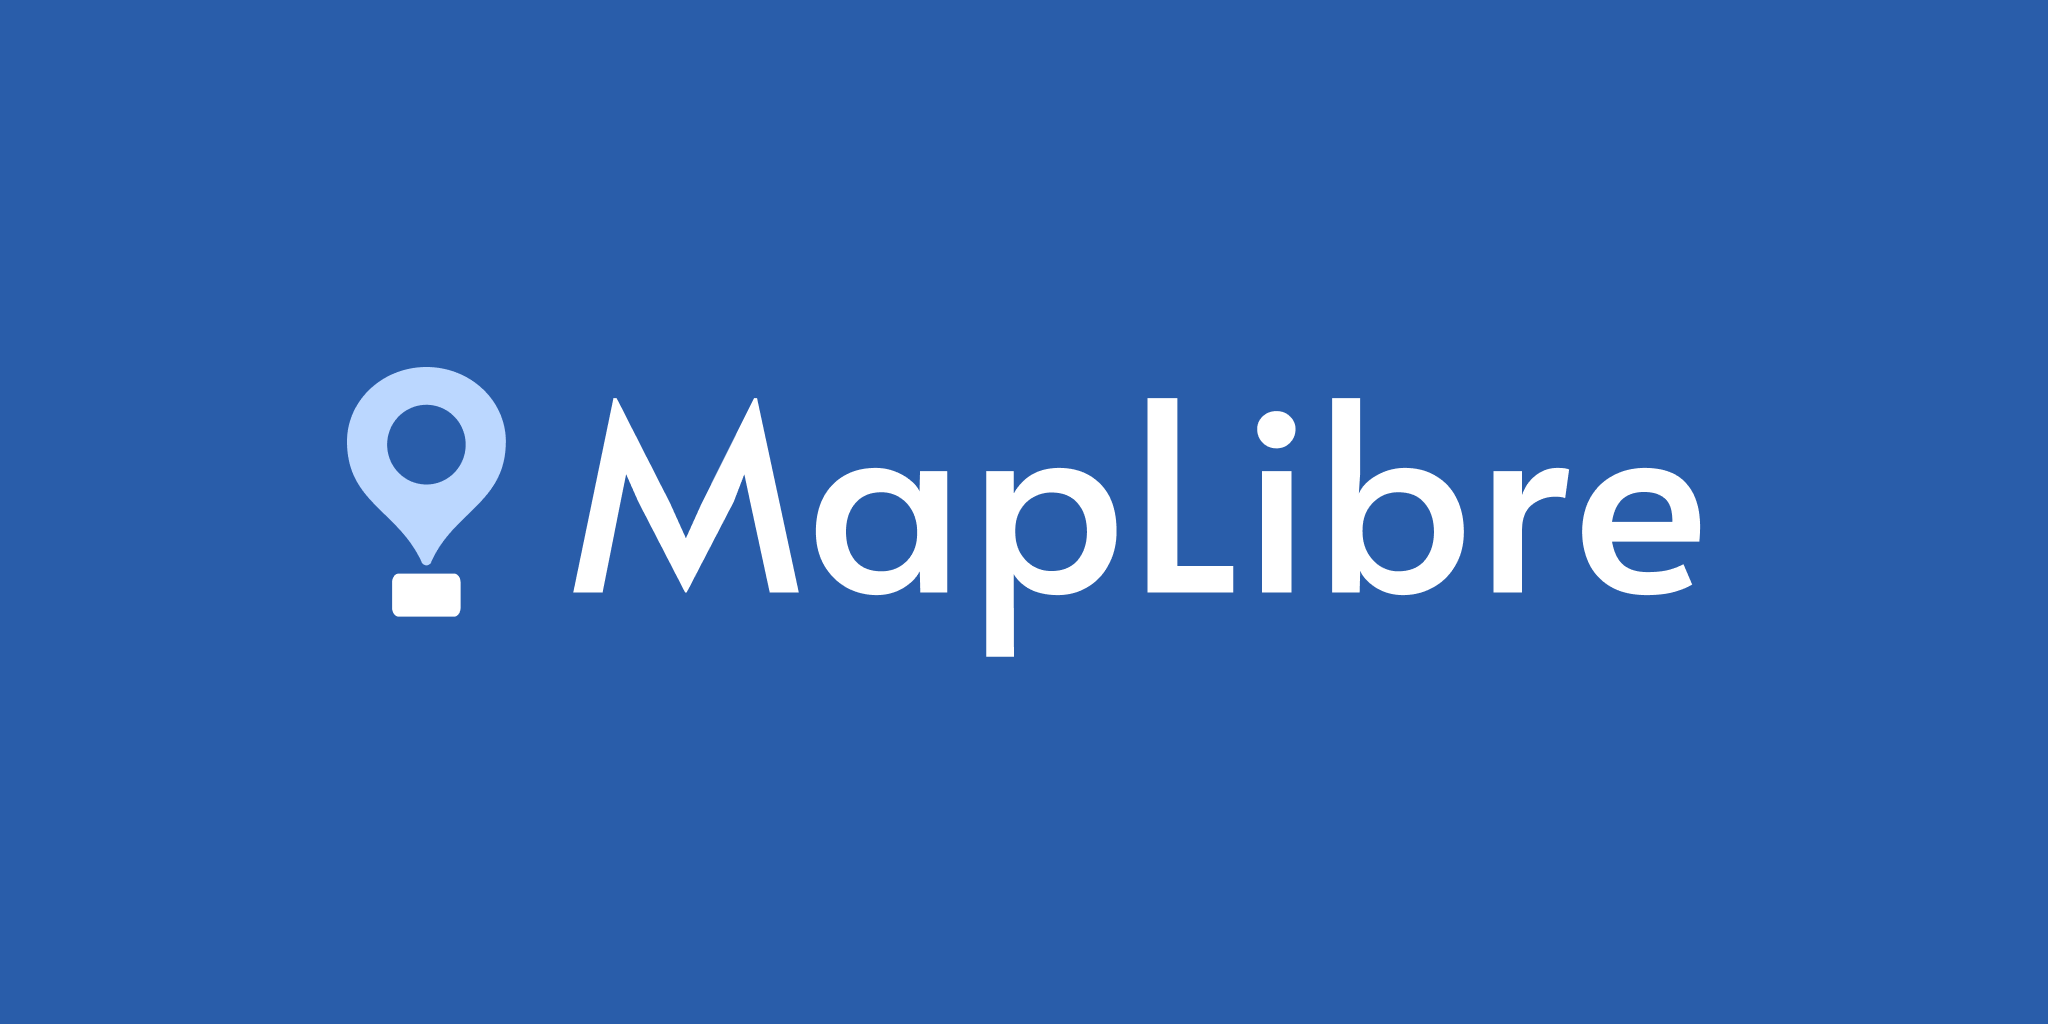
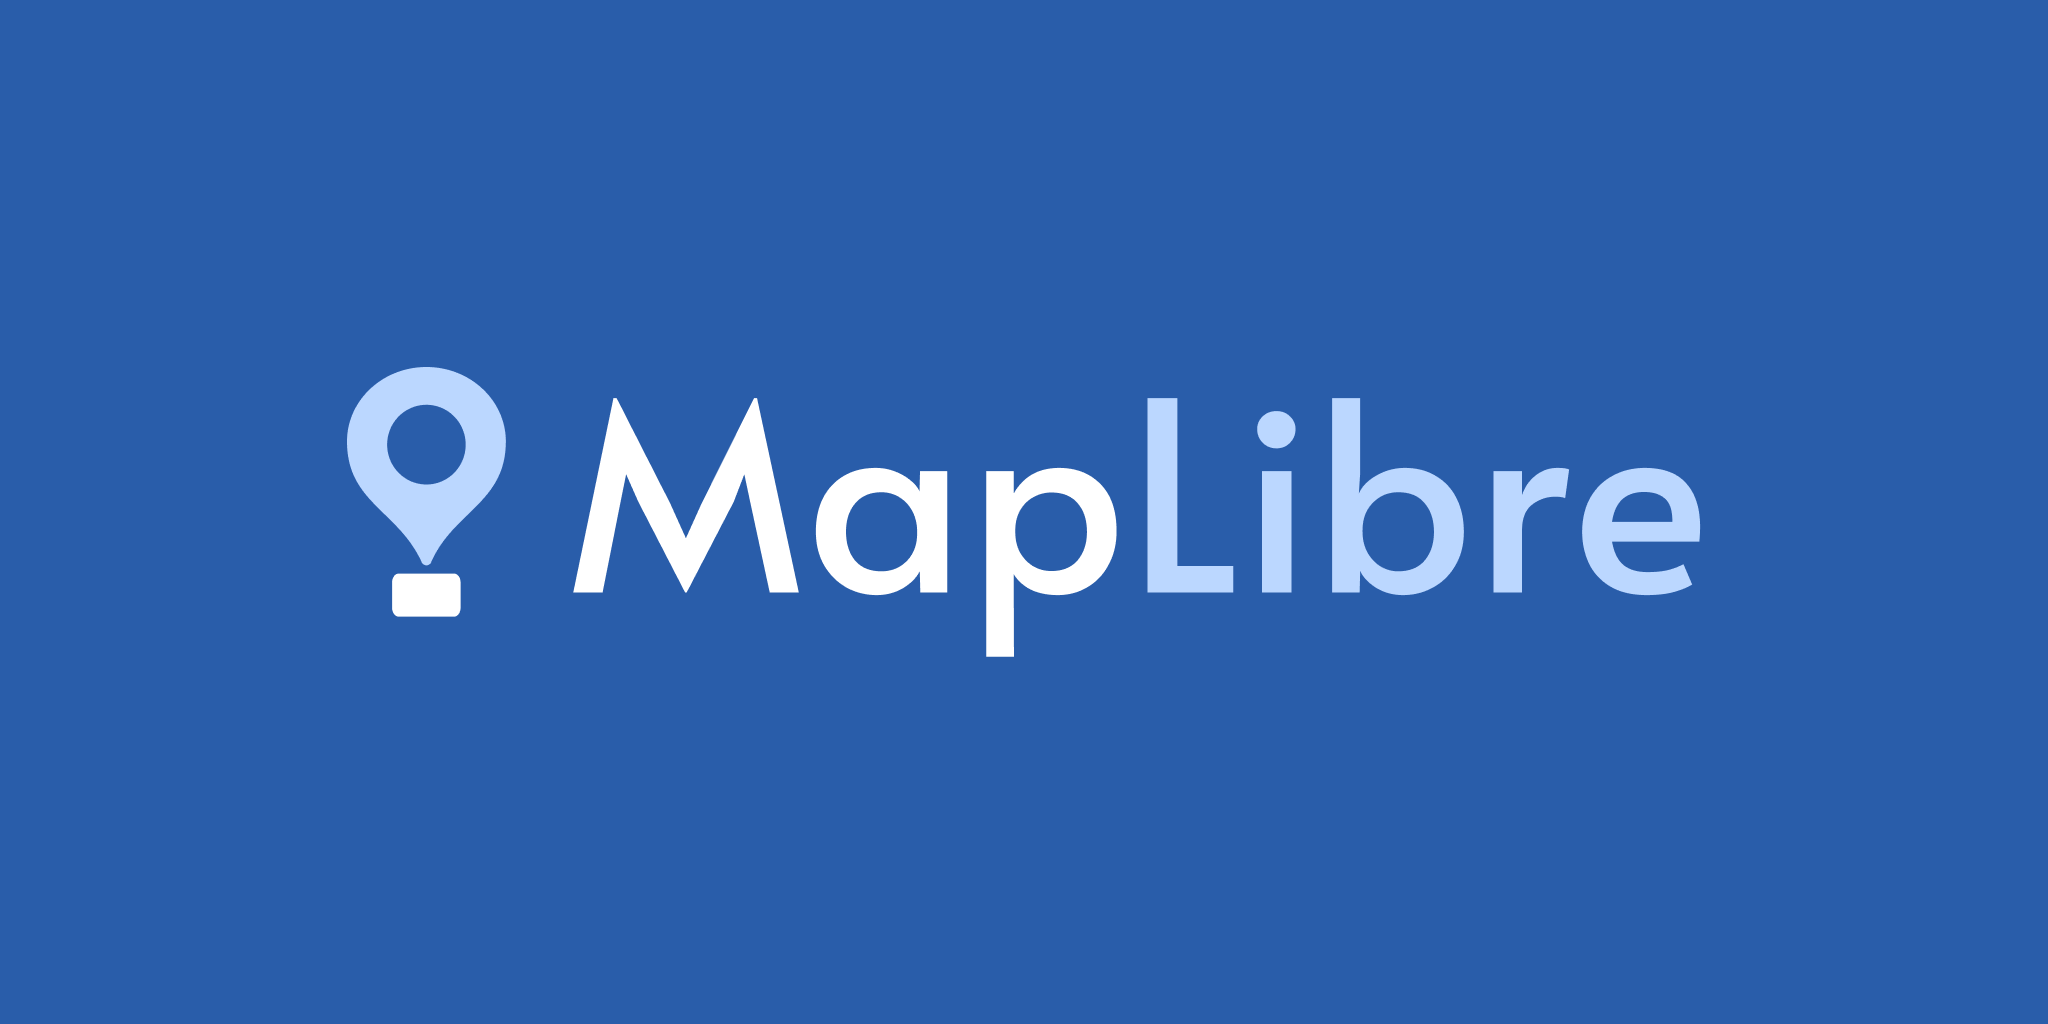
Split MapLibre text colors (#275)

Changed region(s): [[0.5625, 0.375, 0.8438, 0.5938]]

diff --git a/content/_index.html b/content/_index.html
@@ -38,7 +38,7 @@ weight: -10
           >
             <div>
               <h1 style="color: white;">
-                MapLibre <span style="color: #95BEFA;">GL JS</span>
+                Map<span style="color: #95BEFA;">Libre</span> GL JS
               </h1>
 
               Open-source TypeScript library for publishing maps on your
@@ -103,7 +103,7 @@ weight: -10
           >
             <div>
               <h1 style="color: white;">
-                MapLibre <span style="color: #95BEFA;">Native</span>
+                Map<span style="color: #95BEFA;">Libre</span> Native
               </h1>
 
               Open-souce C++ library for displaying maps inside of your mobile
@@ -193,7 +193,7 @@ weight: -10
           >
             <div>
               <h1 style="color: white;">
-                MapLibre <span style="color: #95BEFA;">RS</span>
+                Map<span style="color: #95BEFA;">Libre</span> RS
               </h1>
 
               Experimental portable and performant vector maps renderer based on
@@ -270,8 +270,8 @@ weight: -10
           >
             <div>
               <h1 style="color: white;">
-                MapLibre
-                <span style="color: #95BEFA;">Style Specification</span>
+                Map<span style="color: #95BEFA;">Libre</span> Style
+                Specification
               </h1>
 
               A MapLibre style is a document that defines the visual appearance
